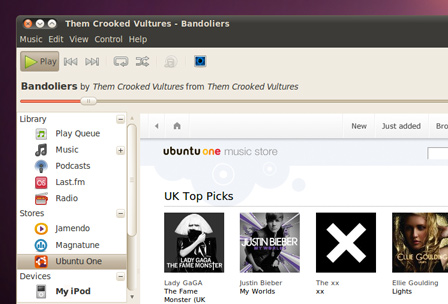
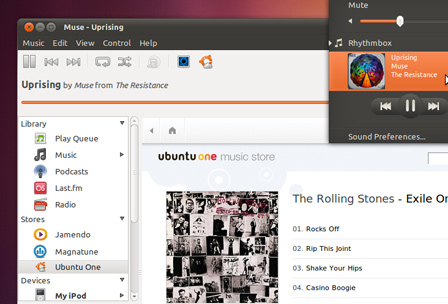
New screenshots with current Maverick beta and Ubuntu font
mobilise.jpeg, music.jpeg, office.jpeg, photos.jpeg, startfast.jpeg and usc.jpeg are by Mat T with the Ubuntu web team. Thanks, Mat!
Removed unused games.jpeg and video.jpeg
Changed accessibility.jpeg to customise.jpeg

diff --git a/slideshows/ubuntu/slides/accessibility.html b/slideshows/ubuntu/slides/accessibility.html
@@ -28,6 +28,6 @@
 
 </div>
 
-<img class="screenshot" src="screenshots/accessibility.jpeg" />
+<img class="screenshot" src="screenshots/customise.jpeg" />
 
 </div>
